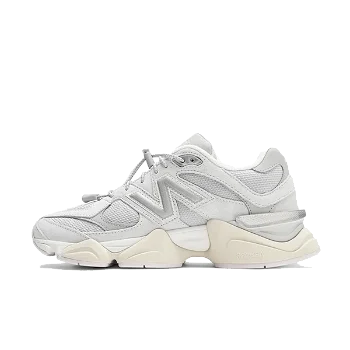
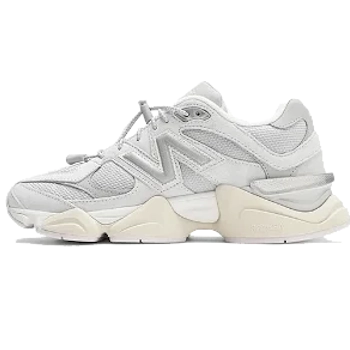
fixed styling

Changed region(s): [[0.0, 0.2286, 1.0, 0.7714]]

diff --git a/store/src/sneakers_women.php b/store/src/sneakers_women.php
@@ -20,97 +20,6 @@ $womensProducts = getWomensProducts($connection);
                   
 </head>
 
-<style>
-        .image-container {
-            white-space: nowrap; 
-            overflow-x: auto; 
-        }
-
-        .image-container img {
-            margin-right: 0px;
-            margin-left: 0px;
-            width: 465px;
-            height: 107px;
-            display: inline-block; 
-        }
-
-        @media (max-width: 600px) {
-            .image-container {
-                white-space: initial; 
-                overflow-x: initial; 
-            }
-
-            .image-container img {
-                flex-basis: auto; 
-                margin-right: 0;
-                margin-left: 0;
-            }
-          }
-
-
-        /*--Section for the "best sellers" section--*/
-        .image-section {
-            display: flex;
-            flex-wrap: wrap;
-            justify-content: flex-start;
-            margin-top: 20px;
-            margin-left: 17px
-        }
-
-        .image-section .item-container {
-            margin: 5px;
-            max-width: calc(20% - 10px);
-            height: auto;
-            float: left;
-        }
-
-        @media (max-width: 600px) {
-            .image-section img {
-                flex-basis: calc(50% - 10px); 
-                width: 100%;
-            }
-        }
-
-
-        /*--text container--*/
-        .text-container {
-            position: relative;
-            bottom: 0;
-            left: 0;
-            width: 100%;
-            background-color: rgba(255, 255, 255, 0.8); /* Semi-transparent white background */
-            padding: 5px;
-            box-sizing: border-box;
-        }
-
-
-        .shoe-name {
-            font-size: 14px;
-            font-weight: bold;
-            margin-bottom: 5px;
-            z-index: 5;
-        }
-
-        .price {
-            font-size: 12px; 
-        }
-
-        img:hover{
-          transform: scale(1.1);
-        }
-
-        .group:hover .absolute {
-    display: block;
-  }
-
-  /* Additional styles for the sub-menus */
-  .absolute {
-    display: none;
-  }
-        
-    </style>
-
-
 
 <body class="overflow-x-hidden flex flex-col min-h-screen">
   <header class="items-center bg-zinc-950 md:px">
@@ -263,7 +172,7 @@ $womensProducts = getWomensProducts($connection);
       echo '<div class="overflow-hidden">';
       echo '<a href="product.php?id=' . $product['product_id'] . '"  class="block h-full group">';
       echo '<div class="bg-neutral-100 pt-36 pb-8 flex items-center justify-center">';
-      echo '<img src="' . $product['product_img'] . '" class="object-cover">';
+      echo '<img src="' . $product['product_img'] . '" class=object-cover style= height:350px>';
       echo '</div>';
       echo '<div class="flex flex-col justify-between p-4 grow">';
       echo '<h3 class="mb-2 text-sm font-medium">' . $product['product_name'] . '</h3>';

diff --git a/store/src/sneakers_men.php b/store/src/sneakers_men.php
@@ -19,71 +19,6 @@ $mensProducts = getMensProducts($connection);
     <title>Mens</title>
 </head>
 
-<style>
-       
-    
-
-        /*--Section for the "best sellers" section--*/
-        .image-section {
-            display: flex;
-            flex-wrap: wrap;
-            justify-content: flex-start;
-            margin-top: 20px;
-            margin-left: 17px
-        }
-
-        .image-section .item-container {
-            margin: 5px;
-            max-width: calc(20% - 10px);
-            height: auto;
-            float: left;
-        }
-
-        @media (max-width: 600px) {
-            .image-section img {
-                flex-basis: calc(50% - 10px); 
-                width: 100%;
-            }
-        }
-
-
-        /*--text container--*/
-        .text-container {
-            position: relative;
-            bottom: 0;
-            left: 0;
-            width: 100%;
-            background-color: rgba(255, 255, 255, 0.8); /* Semi-transparent white background */
-            padding: 5px;
-            box-sizing: border-box;
-        }
-
-
-        .shoe-name {
-            font-size: 14px;
-            font-weight: bold;
-            margin-bottom: 5px;
-            z-index: 5;
-        }
-
-        .price {
-            font-size: 12px; 
-        }
-
-        
-
-        .group:hover .absolute {
-    display: block;
-  }
-
-  /* Additional styles for the sub-menus */
-  .absolute {
-    display: none;
-  }
-         */
-    </style>
-
-
 
 <body class="overflow-x-hidden flex flex-col min-h-screen">
   <header class="items-center bg-zinc-950 md:px">
@@ -236,7 +171,7 @@ $mensProducts = getMensProducts($connection);
       echo '<div class="overflow-hidden">';
       echo '<a href="product.php?id=' . $product['product_id'] . '"  class="block h-full group">';
       echo '<div class="bg-neutral-100 pt-36 pb-8 flex items-center justify-center">';
-      echo '<img src="' . $product['product_img'] . '" class="object-cover">';
+      echo '<img src="' . $product['product_img'] . '" class="object-cover" height: 350px;">'; // Adjust the width according to your requirement
       echo '</div>';
       echo '<div class="flex flex-col justify-between p-4 grow">';
       echo '<h3 class="mb-2 text-sm font-medium">' . $product['product_name'] . '</h3>';

diff --git a/store/src/sneakers.php b/store/src/sneakers.php
@@ -668,7 +668,7 @@ while ($row = mysqli_fetch_assoc($result)) {
     echo '<div class="overflow-hidden">';
     echo '<a href="product.php?id=' . $row['product_id'] . '" class="block h-full group">';
     echo '<div class="bg-neutral-100 pt-36 pb-8 flex items-center justify-center">';
-    echo '<img src="' . $row['product_img'] . '" class="object-cover hover:opacity-75">';
+    echo '<img src="' . $row['product_img'] . '" class="object-cover hover:opacity-75" style= height:350px>';
     echo '</div>';
     echo '<div class="flex flex-col justify-between p-4 grow">';
     echo '<h3 class="mb-2 text-sm font-medium">' . $row['product_name'] . '</h3>';
